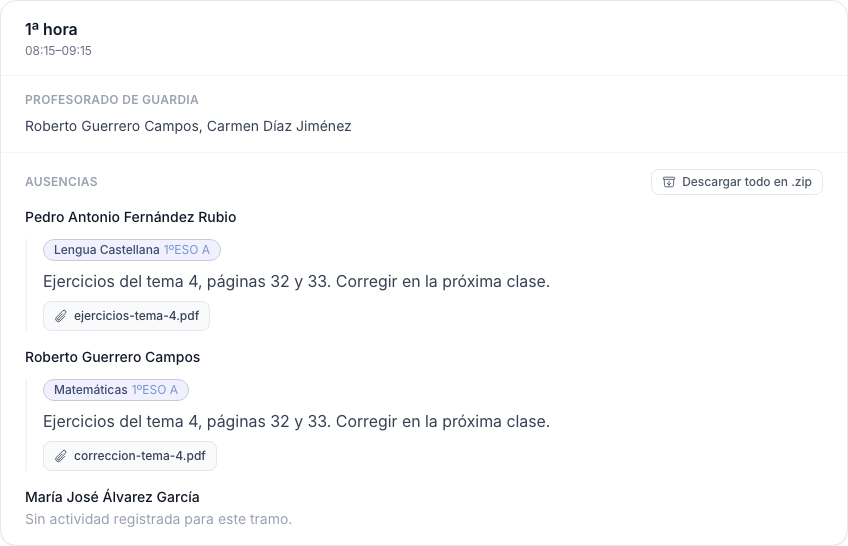
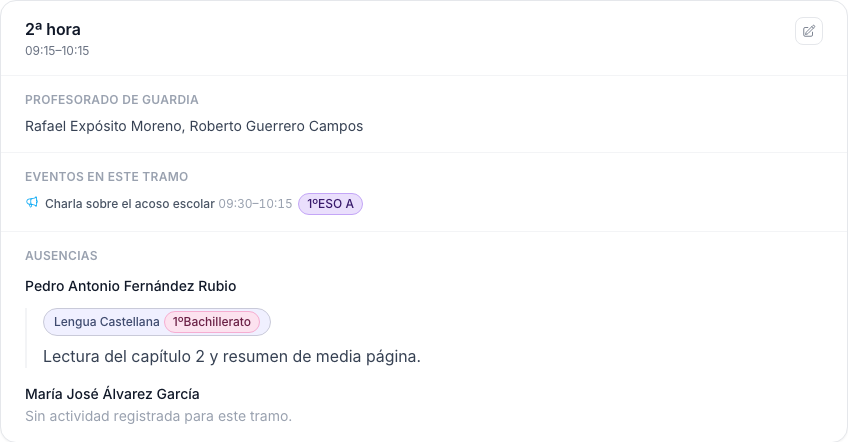
docs(manual): capturas de los colores de grupo y de los eventos asociados a grupos
Formulario de evento sin grupos y con un grupo, color de un grupo en la oferta formativa, vista de
día con un evento en su tramo, y calendario, guardias y tablón regenerados con los colores de grupo.
El script scripts/capture-groups-events-shots.mjs las genera.

Claude-Session: https://claude.ai/code/session_01T5bQf589vbJe9wberdDbBm

diff --git a/docs/manual/05-calendario-y-tablon.md b/docs/manual/05-calendario-y-tablon.md
@@ -47,6 +47,8 @@ avanzar o retroceder de día sin volver al calendario:
 - **Eventos** de ese día, con su horario, descripción, enlace si lo tienen, y los grupos a los que
   están asociados y la etiqueta **General** si los ve todo el profesorado.
 
+![Vista de detalle de un día, con un evento dentro de su tramo horario](img/calendario/calendario-dia.png)
+
 Quien puede [publicar eventos](#quien-puede-publicar-eventos) tiene además un botón **Añadir
 evento** que abre el formulario de alta con la fecha del día ya rellenada.
 
@@ -90,7 +92,13 @@ Cada evento tiene:
       los grupos asociados (y la dirección y los administradores).
 
 Si no se elige ningún grupo, el evento es **general** automáticamente y el formulario no muestra
-ninguna opción de visibilidad.
+ninguna opción de visibilidad:
+
+![Formulario de un evento sin grupos asociados: no hay opciones de visibilidad](img/calendario/evento-formulario-sin-grupos.png)
+
+En cuanto se elige un grupo aparecen las dos opciones, cada una con su explicación:
+
+![Formulario de un evento con un grupo asociado: aparecen las opciones «General» y «Restringido a grupos»](img/calendario/evento-formulario.png)
 
 ## Modo tablón
 

diff --git a/docs/manual/06-administrar-el-centro.md b/docs/manual/06-administrar-el-centro.md
@@ -65,6 +65,8 @@ tablón, así como el nombre del grupo en los listados de partes, sanciones, not
 - Para **volver al color por defecto**, pulsa **Volver al color por defecto**: se elimina el color
   personalizado y el grupo recupera el calculado.
 
+![Formulario de un grupo con su color personalizado y el botón para volver al color por defecto](img/centro/centro-oferta-color.png)
+
 Si el centro no tiene un curso académico activo, la sección muestra un aviso y no permite
 gestionar la oferta formativa. El paso a paso completo está en
 [Preparar el curso académico](02-preparar-el-curso-academico.md#la-oferta-formativa-a-mano).
